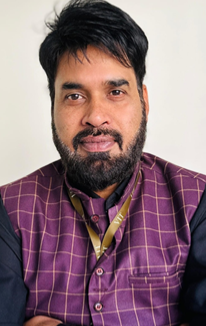
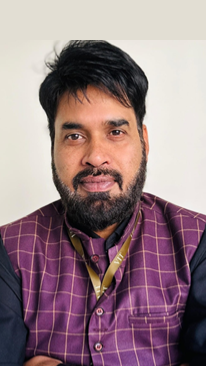
Update website changes

diff --git a/src/app/page.tsx b/src/app/page.tsx
@@ -391,7 +391,8 @@ export default function Home() {
                     },
                     { 
                       name: "Mrs. Ramni Balasundaram", 
-                      title: "Trustee" 
+                      title: "Trustee",
+                      image: "/Images/Ramni Balasundaram.png"
                     },
                   ].map((person, i) => (
                     <motion.div variants={fadeInUp} whileHover={{ scale: 1.03, y: -5 }} key={i} className="flex items-center space-x-4 lg:space-x-6 p-4 rounded-3xl bg-white/60 backdrop-blur-xl border border-white shadow-lg hover:shadow-xl transition-all">
@@ -565,8 +566,18 @@ export default function Home() {
           <motion.div variants={staggerContainer} initial="initial" whileInView="whileInView" viewport={{ once: true }} className="grid grid-cols-1 lg:grid-cols-2 gap-12 mb-16">
             <motion.div variants={fadeInUp} whileHover={{ scale: 1.02 }} className="bg-gradient-to-br from-[#0a2540] to-indigo-900 text-white p-10 rounded-3xl shadow-2xl flex flex-col sm:flex-row items-center text-center sm:text-left gap-8 border border-white/10 relative overflow-hidden">
               <div className="absolute top-0 right-0 w-32 h-32 bg-[var(--color-brand-gold)]/20 rounded-bl-full blur-2xl"></div>
-              <div className="w-32 h-32 rounded-full bg-white/10 shadow-inner flex items-center justify-center flex-shrink-0 text-[var(--color-brand-gold-light)] relative z-10 backdrop-blur-sm border border-white/20">
-                 <Users size={48} />
+              <div className="w-32 h-32 rounded-full bg-white/10 shadow-inner flex items-center justify-center flex-shrink-0 text-[var(--color-brand-gold-light)] relative z-10 backdrop-blur-sm border border-white/20 overflow-hidden border border-gray-100">
+                 <img 
+                   src="/Images/Dr. Hemant Nashine.png" 
+                   alt="Dr. Hemant Nashine" 
+                   className="w-full h-full object-cover relative z-10"
+                   onError={(e) => {
+                     (e.target as HTMLImageElement).style.display = 'none';
+                   }}
+                 />
+                 <div className="absolute inset-0 flex items-center justify-center text-[var(--color-brand-gold-light)] z-0">
+                   <Users size={48} />
+                 </div>
               </div>
               <div className="relative z-10">
                 <h3 className="text-[var(--color-brand-gold)] font-bold mb-2 uppercase tracking-wide text-sm">Conference Chair</h3>
@@ -591,15 +602,41 @@ export default function Home() {
           <h3 id="conveners" className="text-2xl font-bold text-center text-[var(--color-brand-blue)] mb-10 uppercase tracking-wider">Conveners</h3>
           <motion.div variants={staggerContainer} initial="initial" whileInView="whileInView" viewport={{ once: true }} className="grid grid-cols-1 md:grid-cols-2 gap-6 max-w-4xl mx-auto">
             {[
-              { name: "Dr. Vinod Bhatt", title: "Associate Professor, SASL, VIT Bhopal University" },
-              { name: "Dr. Dev Brat Gupta", title: "Assistant Professor, SASL, VIT Bhopal University" },
-              { name: "Magister Graciela Barrios", title: "Chief of Staff, College of Agriculture Engineering and Rural Development, UN - PILAR" },
-              { name: "Lic. Maria Lourdes Coronel Caballero", title: "General Director for Coordination and Strategic Planning" },
+              { 
+                name: "Dr. Vinod Bhatt", 
+                title: "Associate Professor, SASL, VIT Bhopal University",
+                image: "/Images/Dr. Vinod Bhatt.png"
+              },
+              { 
+                name: "Dr. Dev Brat Gupta", 
+                title: "Assistant Professor, SASL, VIT Bhopal University",
+                image: "/Images/Dr. Dev Brat Gupta.png"
+              },
+              { 
+                name: "Magister Graciela Barrios", 
+                title: "Chief of Staff, College of Agriculture Engineering and Rural Development, UN - PILAR" 
+              },
+              { 
+                name: "Lic. Maria Lourdes Coronel Caballero", 
+                title: "General Director for Coordination and Strategic Planning" 
+              },
             ].map((person, i) => (
               <motion.div variants={fadeInUp} whileHover={{ y: -10, scale: 1.02 }} key={i} className="bg-gradient-to-br from-[#0a2540] to-indigo-900 text-white p-6 rounded-3xl shadow-lg text-center flex flex-col items-center transition-all group border border-white/10 relative overflow-hidden">
                 <div className="absolute top-0 right-0 w-24 h-24 bg-[var(--color-brand-gold)]/10 rounded-bl-full blur-xl"></div>
-                <div className="w-24 h-24 rounded-full bg-white/10 shadow-inner mb-4 flex items-center justify-center text-[var(--color-brand-gold-light)] group-hover:scale-110 transition-transform duration-300 border border-white/20 relative z-10">
-                  <Users size={32} />
+                <div className="w-24 h-24 rounded-full bg-white/10 shadow-inner mb-4 flex items-center justify-center text-[var(--color-brand-gold-light)] group-hover:scale-110 transition-transform duration-300 border border-white/20 relative z-10 overflow-hidden border border-gray-100/50">
+                  {person.image ? (
+                    <img 
+                      src={person.image} 
+                      alt={person.name} 
+                      className={`w-full h-full object-cover relative z-10 ${person.name.includes("Bhatt") ? "object-top" : ""}`}
+                      onError={(e) => {
+                        (e.target as HTMLImageElement).style.display = 'none';
+                      }}
+                    />
+                  ) : null}
+                  <div className="absolute inset-0 flex items-center justify-center text-[var(--color-brand-gold-light)] z-0">
+                    <Users size={32} />
+                  </div>
                 </div>
                 <h4 className="text-lg font-bold text-white mb-2 relative z-10">{person.name}</h4>
                 <p className="text-[var(--color-brand-gold-light)] font-medium text-xs mb-4 leading-relaxed relative z-10">{person.title}</p>

diff --git a/src/app/speakers/page.tsx b/src/app/speakers/page.tsx
@@ -133,7 +133,7 @@ export default function SpeakersPage() {
                     <img 
                       src={speaker.image} 
                       alt={speaker.name} 
-                      className="w-full h-full object-cover relative z-10 transition-transform duration-500 group-hover:scale-110"
+                      className={`w-full h-full object-cover relative z-10 transition-transform duration-500 group-hover:scale-110 ${speaker.name.includes("Vinod Bhatt") ? "object-top" : ""}`}
                       onError={(e) => {
                         (e.target as HTMLImageElement).style.display = 'none';
                       }}